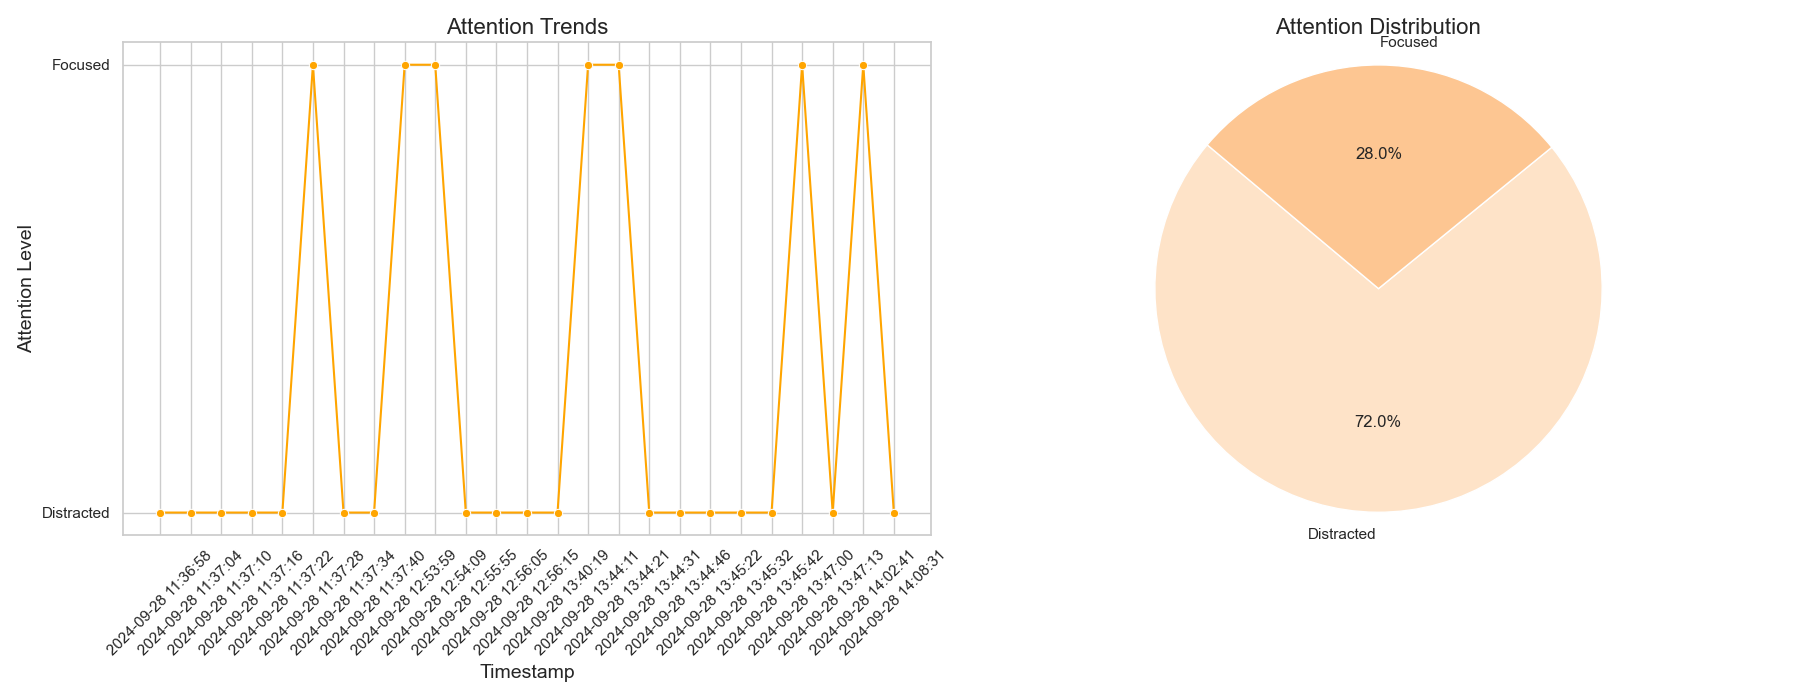
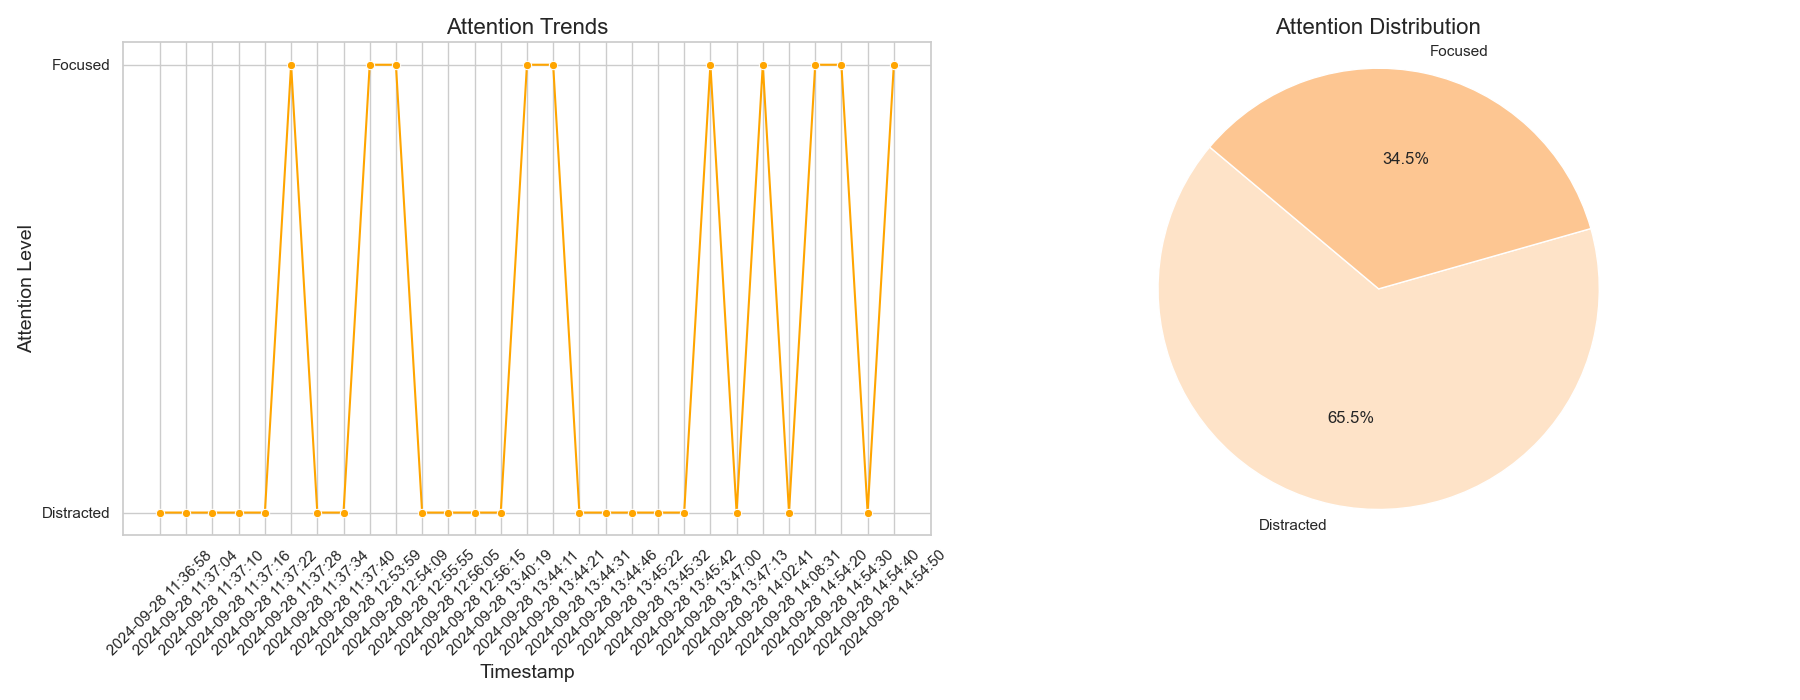
attention implemented...

diff --git a/app/gaze.py b/app/gaze.py
@@ -1,0 +1,220 @@
+import cv2
+import mediapipe as mp
+import numpy as np
+
+class GazeDetector:
+    def __init__(self, 
+                 max_num_faces=1, 
+                 detection_confidence=0.7, 
+                 track_confidence=0.7):
+        self.mp_face_mesh = mp.solutions.face_mesh
+        self.face_mesh = self.mp_face_mesh.FaceMesh(
+            max_num_faces=max_num_faces,
+            refine_landmarks=True,  # Enables iris landmarks
+            min_detection_confidence=detection_confidence,
+            min_tracking_confidence=track_confidence)
+        
+        # Define iris landmarks based on MediaPipe's Face Mesh
+        self.LEFT_IRIS = [468, 469, 470, 471, 472]
+        self.RIGHT_IRIS = [473, 474, 475, 476, 477]
+        
+        # Define eye contours for visualization and further processing
+        self.LEFT_EYE_LANDMARKS = [
+            33, 7, 163, 144, 145, 153, 154, 155, 133, 173,
+            157, 158, 159, 160, 161, 246
+        ]
+        self.RIGHT_EYE_LANDMARKS = [
+            362, 382, 381, 380, 374, 373, 390, 249, 263, 466,
+            388, 387, 386, 385, 384, 398
+        ]
+        
+        # MediaPipe drawing specifications (optional, for debugging)
+        self.mp_drawing = mp.solutions.drawing_utils
+        self.mp_drawing_styles = mp.solutions.drawing_styles
+
+    def get_gaze_direction(self, image):
+        """
+        Processes the input image and returns the gaze points for detected faces.
+        """
+        # Convert the BGR image to RGB before processing.
+        rgb_image = cv2.cvtColor(image, cv2.COLOR_BGR2RGB)
+        results = self.face_mesh.process(rgb_image)
+
+        gaze_points = []
+
+        if results.multi_face_landmarks:
+            for face_landmarks in results.multi_face_landmarks:
+                # Get image dimensions
+                h, w, _ = image.shape
+
+                # Get iris centers
+                left_iris = self._get_iris_center(face_landmarks, self.LEFT_IRIS, w, h)
+                right_iris = self._get_iris_center(face_landmarks, self.RIGHT_IRIS, w, h)
+
+                # Get eye regions for calculating gaze direction
+                left_eye_region = self._get_eye_region(face_landmarks, self.LEFT_EYE_LANDMARKS, w, h)
+                right_eye_region = self._get_eye_region(face_landmarks, self.RIGHT_EYE_LANDMARKS, w, h)
+
+                # Calculate gaze direction for each eye
+                left_gaze = self._calculate_gaze_direction(left_iris, left_eye_region)
+                right_gaze = self._calculate_gaze_direction(right_iris, right_eye_region)
+
+                # Average the gaze directions
+                avg_gaze = (
+                    int((left_gaze[0] + right_gaze[0]) / 2),
+                    int((left_gaze[1] + right_gaze[1]) / 2)
+                )
+                gaze_points.append(avg_gaze)
+
+        return gaze_points, results.multi_face_landmarks
+
+    def _get_iris_center(self, landmarks, iris_indices, image_width, image_height):
+        """
+        Calculates the center of the iris based on the iris landmarks.
+        """
+        iris_x = []
+        iris_y = []
+        for idx in iris_indices:
+            x = int(landmarks.landmark[idx].x * image_width)
+            y = int(landmarks.landmark[idx].y * image_height)
+            iris_x.append(x)
+            iris_y.append(y)
+        
+        if len(iris_x) == 0 or len(iris_y) == 0:
+            return (0, 0)
+        
+        center_x = int(np.mean(iris_x))
+        center_y = int(np.mean(iris_y))
+        return (center_x, center_y)
+
+    def _get_eye_region(self, landmarks, eye_indices, image_width, image_height):
+        """
+        Extracts the eye region based on the provided eye landmark indices.
+        """
+        eye_points = []
+        for idx in eye_indices:
+            x = int(landmarks.landmark[idx].x * image_width)
+            y = int(landmarks.landmark[idx].y * image_height)
+            eye_points.append((x, y))
+        return eye_points
+
+    def _calculate_gaze_direction(self, iris_center, eye_region):
+        """
+        Estimates the gaze direction based on the iris center position within the eye region.
+        """
+        if iris_center == (0, 0):
+            # Default gaze point if iris center is not detected
+            return (0, 0)
+        
+        # Calculate the bounding rectangle of the eye region
+        eye_region_np = np.array(eye_region, dtype=np.int32)
+        x_min = np.min(eye_region_np[:, 0])
+        x_max = np.max(eye_region_np[:, 0])
+        y_min = np.min(eye_region_np[:, 1])
+        y_max = np.max(eye_region_np[:, 1])
+        
+        # Normalize the iris position within the eye region
+        norm_x = (iris_center[0] - x_min) / (x_max - x_min)
+        norm_y = (iris_center[1] - y_min) / (y_max - y_min)
+        
+        # Define gaze direction based on normalized positions
+        # Here, we map the normalized positions to screen coordinates
+        # You can adjust the scaling factors as needed
+        screen_x = int(norm_x * 100)  # Example scaling
+        screen_y = int(norm_y * 100)  # Example scaling
+        
+        return (screen_x, screen_y)
+    
+    def isFocused(self, image, thresh=0.1):
+        ##  It is focused if the iris points are within -thresh to thresh from the range 
+        ##  of each eye's x coordinates
+        ##  If the iris points' y coordinates are more than 5% apart, it is not focused
+        gaze_points, face_landmarks_list = self.get_gaze_direction(image)
+        left_iris_center = self._get_iris_center(face_landmarks_list[0], self.LEFT_IRIS, image.shape[1], image.shape[0])
+        right_iris_center = self._get_iris_center(face_landmarks_list[0], self.RIGHT_IRIS, image.shape[1], image.shape[0])
+        left_eye_region = self._get_eye_region(face_landmarks_list[0], self.LEFT_EYE_LANDMARKS, image.shape[1], image.shape[0])
+        right_eye_region = self._get_eye_region(face_landmarks_list[0], self.RIGHT_EYE_LANDMARKS, image.shape[1], image.shape[0])
+        ##  Check x coordinates...
+        left_x = [point[0] for point in left_eye_region]
+        right_x = [point[0] for point in right_eye_region]
+        left_range = (min(left_x), max(left_x))
+        right_range = (min(right_x), max(right_x))
+        left_focused = 0.5 - thresh < (left_iris_center[0] - left_range[0]) / (left_range[1] - left_range[0]) < 0.5 + thresh
+        right_focused = 0.5 - thresh < (right_iris_center[0] - right_range[0]) / (right_range[1] - right_range[0]) < 0.5 + thresh
+        ##  Check y coordinates...
+        left_y = left_iris_center[1]
+        right_y = right_iris_center[1]
+        y_focused = abs(left_y - right_y) < 0.02 * image.shape[0]
+        return left_focused and right_focused and y_focused
+
+
+def main():
+    # Initialize webcam
+    cap = cv2.VideoCapture(0)
+    if not cap.isOpened():
+        print("Error: Could not open webcam.")
+        return
+
+    # Initialize GazeDetector
+    gaze_detector = GazeDetector()
+
+    while True:
+        ret, frame = cap.read()
+        if not ret:
+            print("Failed to grab frame.")
+            break
+
+        # Optionally, resize frame for performance (commented out for accurate scaling)
+        # frame = cv2.resize(frame, (640, 480))
+
+        # Get gaze points and face landmarks
+        gaze_points, face_landmarks_list = gaze_detector.get_gaze_direction(frame)
+        # print('Face Landmarks:', face_landmarks_list)
+
+        # Visualize gaze points
+        for point in gaze_points:
+            if point != (0, 0):
+                # Draw iris center
+                cv2.circle(frame, point, 5, (0, 255, 0), -1)
+                
+                # Draw gaze direction line (adjust the scaling as needed)
+                # Here, we draw a line from the iris center upwards
+                end_point = (point[0], point[1] - 50)  # Example: 50 pixels upwards
+                cv2.line(frame, point, end_point, (255, 0, 0), 2)
+
+        # Optional: Draw eye contours and iris centers for debugging
+        if face_landmarks_list:
+            for face_landmarks in face_landmarks_list:
+                # Get image dimensions
+                h, w, _ = frame.shape
+
+                # Draw left eye contour
+                left_eye_region = gaze_detector._get_eye_region(face_landmarks, gaze_detector.LEFT_EYE_LANDMARKS, w, h)
+                cv2.polylines(frame, [np.array(left_eye_region, dtype=np.int32)], isClosed=True, color=(0, 255, 255), thickness=1)
+
+                # Draw right eye contour
+                right_eye_region = gaze_detector._get_eye_region(face_landmarks, gaze_detector.RIGHT_EYE_LANDMARKS, w, h)
+                cv2.polylines(frame, [np.array(right_eye_region, dtype=np.int32)], isClosed=True, color=(0, 255, 255), thickness=1)
+
+                # Draw iris centers
+                left_iris_center = gaze_detector._get_iris_center(face_landmarks, gaze_detector.LEFT_IRIS, w, h)
+                right_iris_center = gaze_detector._get_iris_center(face_landmarks, gaze_detector.RIGHT_IRIS, w, h)
+                cv2.circle(frame, left_iris_center, 3, (255, 0, 255), -1)
+                cv2.circle(frame, right_iris_center, 3, (255, 0, 255), -1)
+                
+
+        cv2.putText(frame, f"Focused: {gaze_detector.isFocused(frame)}", (10, 30), cv2.FONT_HERSHEY_SIMPLEX, 1, (0, 255, 0), 2)
+        # Display the frame
+        cv2.imshow('Gaze Detection', frame)
+
+
+        # Exit on pressing 'q'
+        if cv2.waitKey(1) & 0xFF == ord('q'):
+            break
+
+    # Release resources
+    cap.release()
+    cv2.destroyAllWindows()
+
+if __name__ == "__main__":
+    main()

diff --git a/app/image_attention.py b/app/image_attention.py
@@ -1,10 +1,13 @@
 import random
+from gaze import GazeDetector
 
 class ImageAttention:
     def __init__(self, image):
+        self.gaze = GazeDetector()
         self.image = image
 
-    def analyze(self):
+
+    def analyze(self, image):
         attention_states = ['Focused', 'Distracted']
         result = random.choice(attention_states)
         return result
